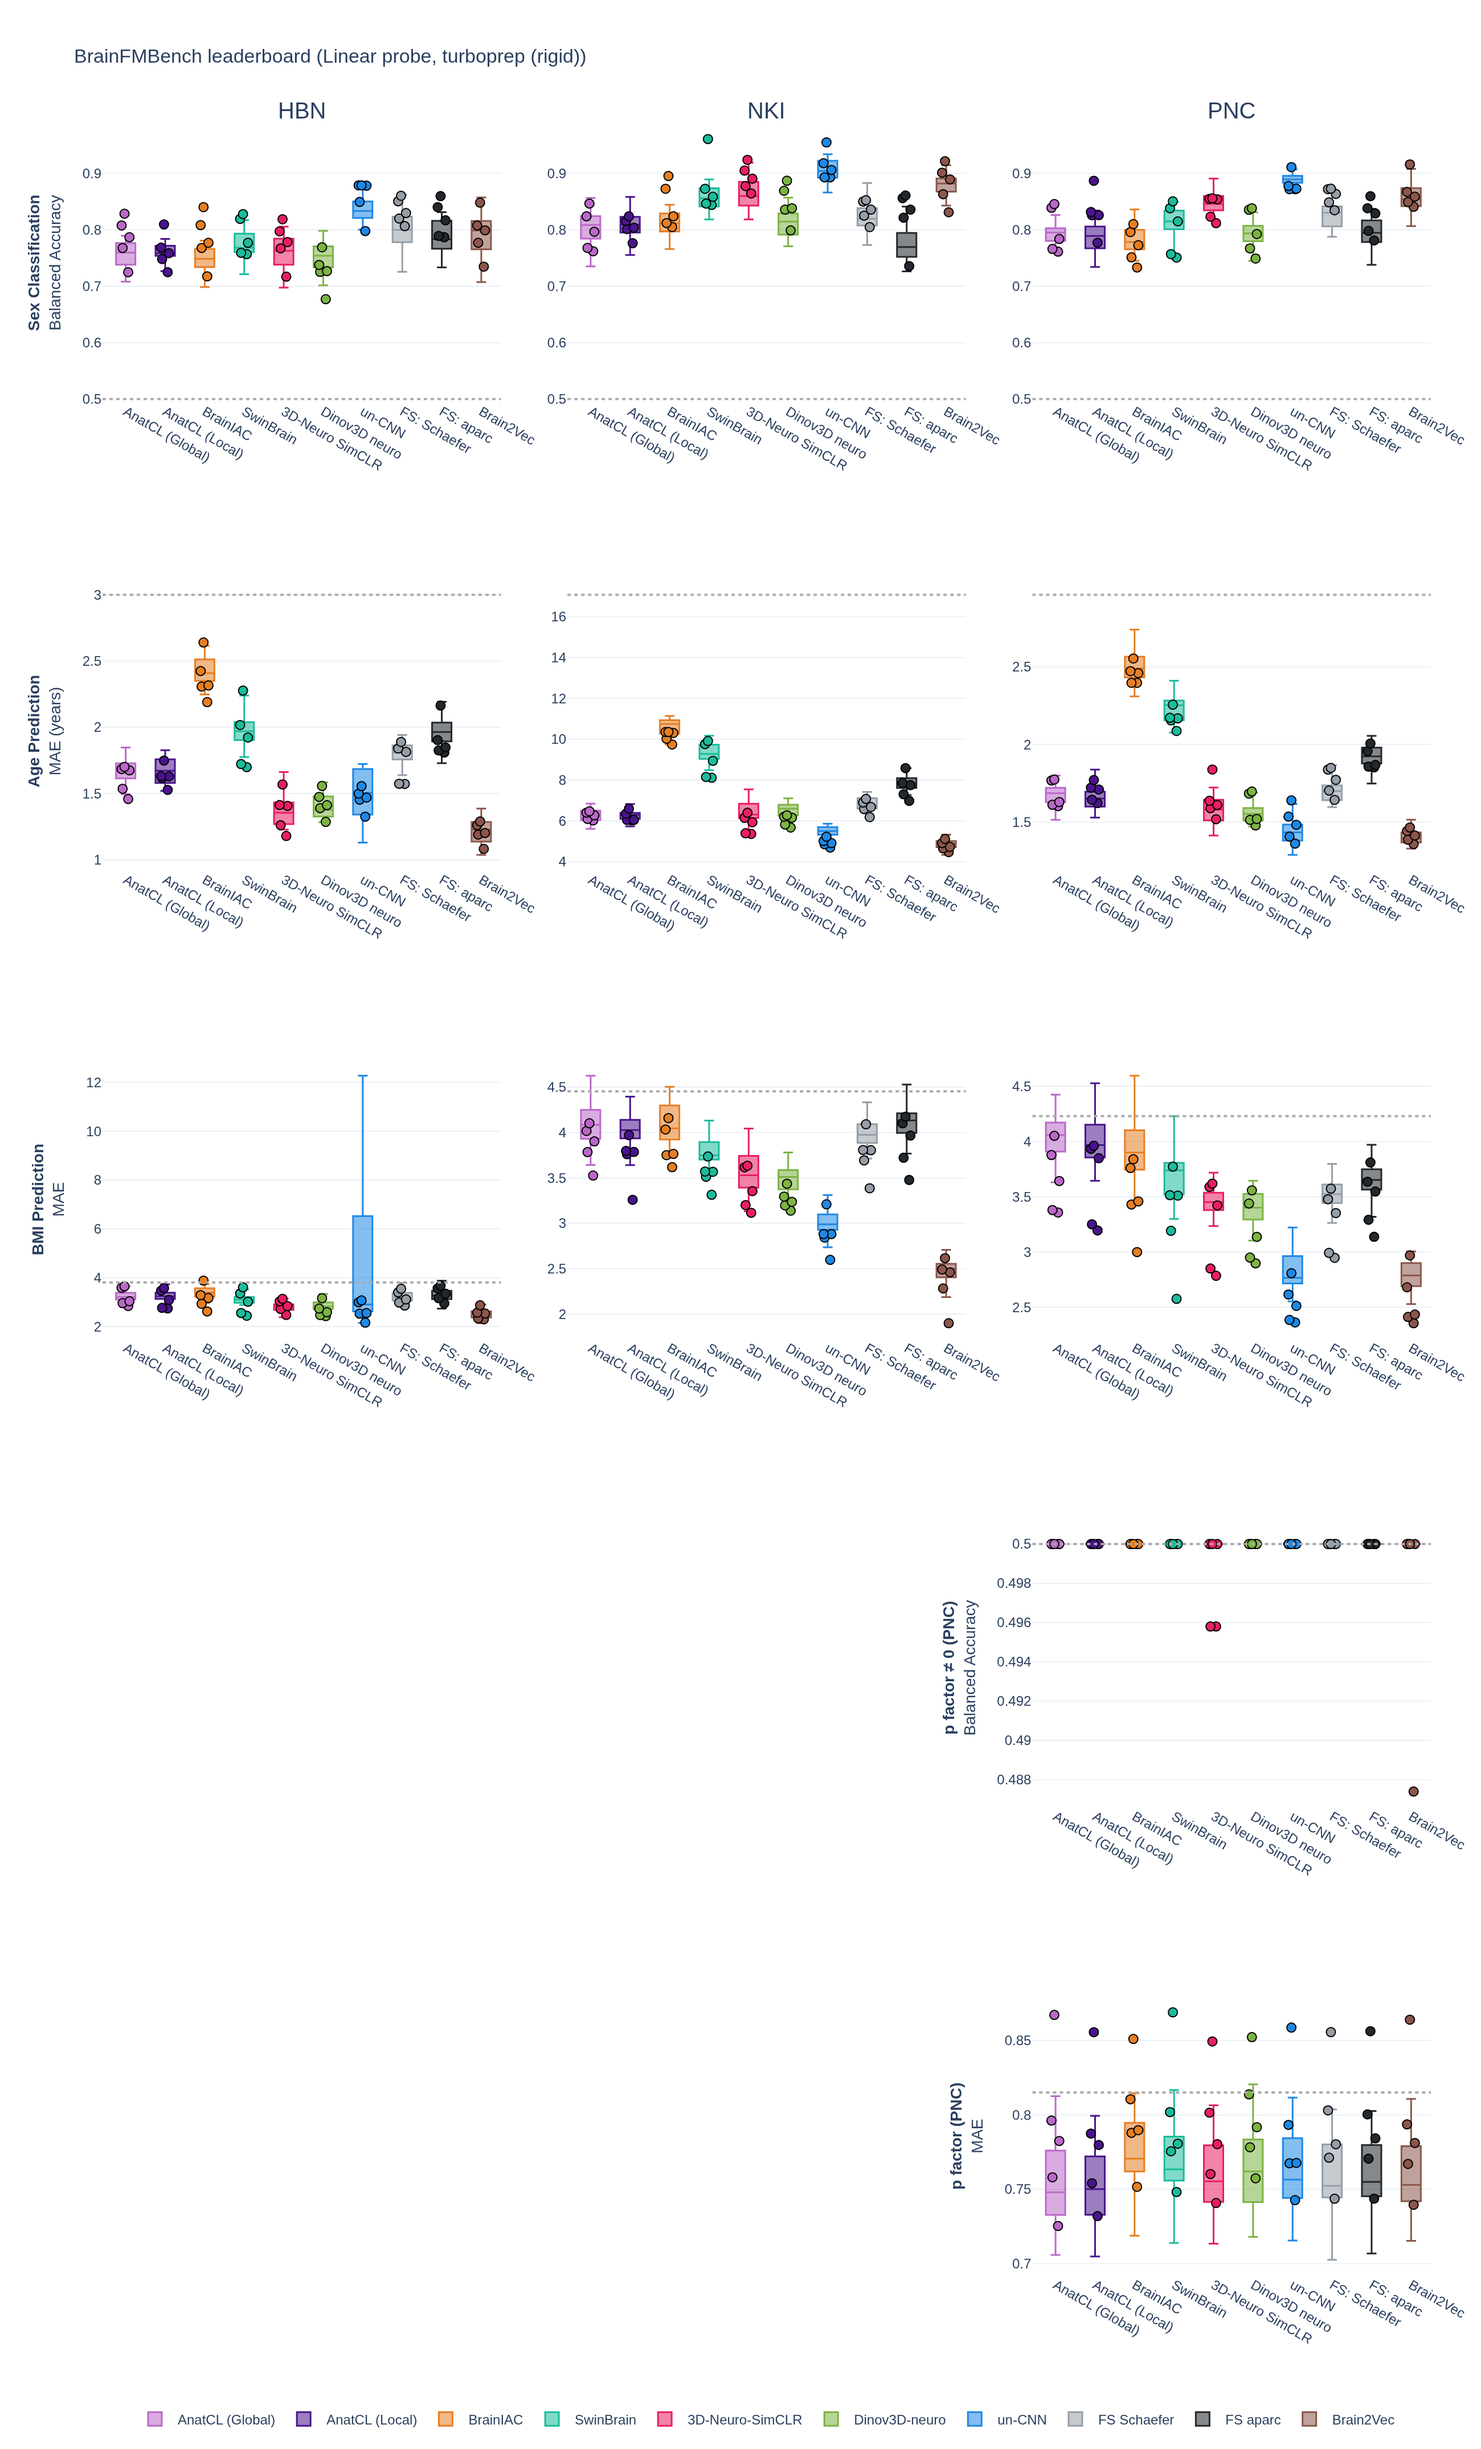
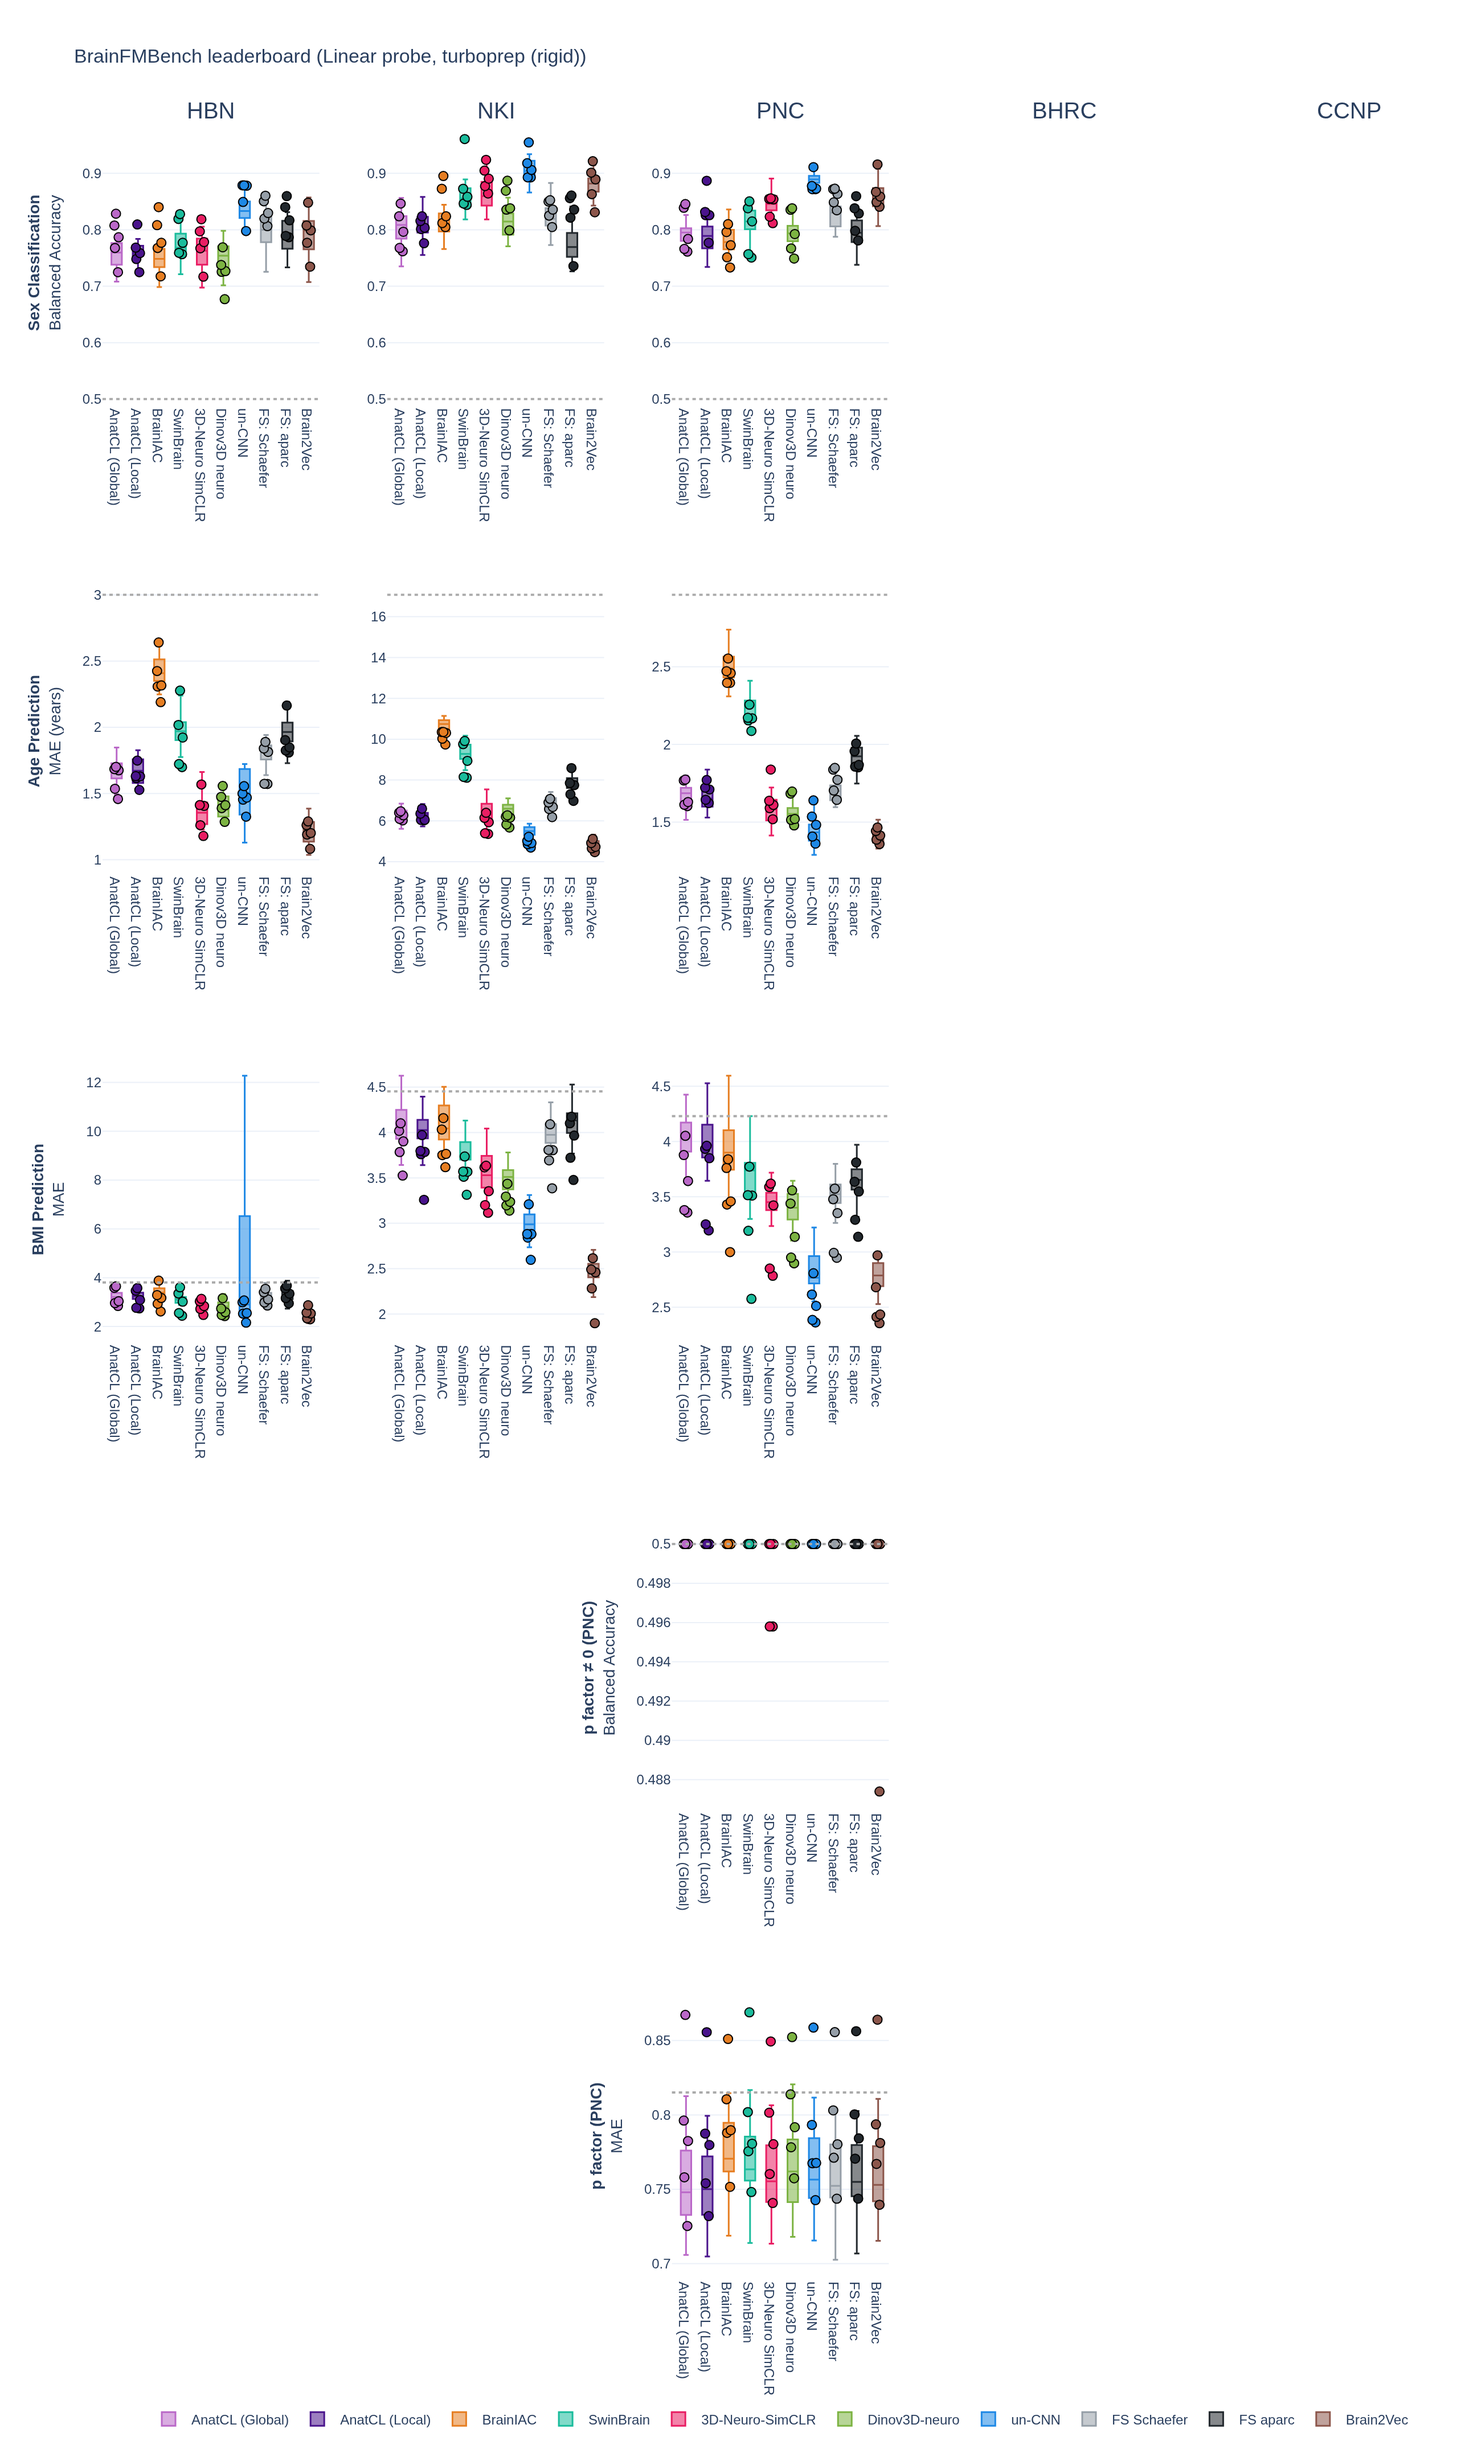
Update results + leaderboard [skip ci]

diff --git a/README.md b/README.md
@@ -5,7 +5,7 @@
 [![License](https://img.shields.io/badge/License-MIT_code_%C2%B7_CC_BY--NC--SA_labels-0a7bbb?style=for-the-badge)](labels/README.md)
 [![Scoring](https://img.shields.io/github/actions/workflow/status/epics-lab/BrainFMBench/score.yml?style=for-the-badge&label=Scoring&logo=githubactions&logoColor=white)](https://github.com/epics-lab/BrainFMBench/actions/workflows/score.yml)
 [![Models](https://img.shields.io/badge/%F0%9F%A7%A0_Models-10-e67e22?style=for-the-badge)](LEADERBOARD.md)
-[![Datasets](https://img.shields.io/badge/Datasets-3-16a085?style=for-the-badge)](#tasks--data)
+[![Datasets](https://img.shields.io/badge/Datasets-5-16a085?style=for-the-badge)](#tasks--data)
 [![Preprocessing](https://img.shields.io/badge/Preprocessing_options-4-8e44ad?style=for-the-badge)](CONTRIBUTING.md)
 [![Probes](https://img.shields.io/badge/Probes-RandomForest_%C2%B7_Linear-34495e?style=for-the-badge)](#scoring-protocol)
 [![Version](https://img.shields.io/github/v/tag/epics-lab/BrainFMBench?style=for-the-badge&label=Version)](CHANGELOG.md)
@@ -18,7 +18,7 @@ fed into downstream learners; the leaderboard updates automatically.
 
 <!-- LEADERBOARD:START -->
 
-[![Leaderboard boxplots](leaderboard_boxplots.png?v=5e09c7a5)](https://www.epics-lab.ca/BrainFMBench/)
+[![BrainFMBench overview](leaderboard_overview.png?v=595d1f01)](https://www.epics-lab.ca/BrainFMBench/)
 
 **[Interactive version](https://www.epics-lab.ca/BrainFMBench/)**
 

diff --git a/LEADERBOARD.md b/LEADERBOARD.md
@@ -3,7 +3,9 @@
 Downstream probing of frozen features with a linear and a RandomForest probe, held out test. The static figure shows the linear probe on rigid turboprep; the interactive site switches probe and preprocessing.
 Classification reports balanced accuracy and AUC; regression reports MAE and R². Arrows mark the better direction.
 
-[![Leaderboard boxplots](leaderboard_boxplots.png?v=5e09c7a5)](https://www.epics-lab.ca/BrainFMBench/)
+[![BrainFMBench overview](leaderboard_overview.png?v=595d1f01)](https://www.epics-lab.ca/BrainFMBench/)
+
+[![Leaderboard boxplots](leaderboard_boxplots.png?v=d2747fb3)](https://www.epics-lab.ca/BrainFMBench/)
 
 _Boxes show 5-fold cross-validation across 5 seeds (25 values); overlaid points show held-out test results for the same 5 seeds._
 
